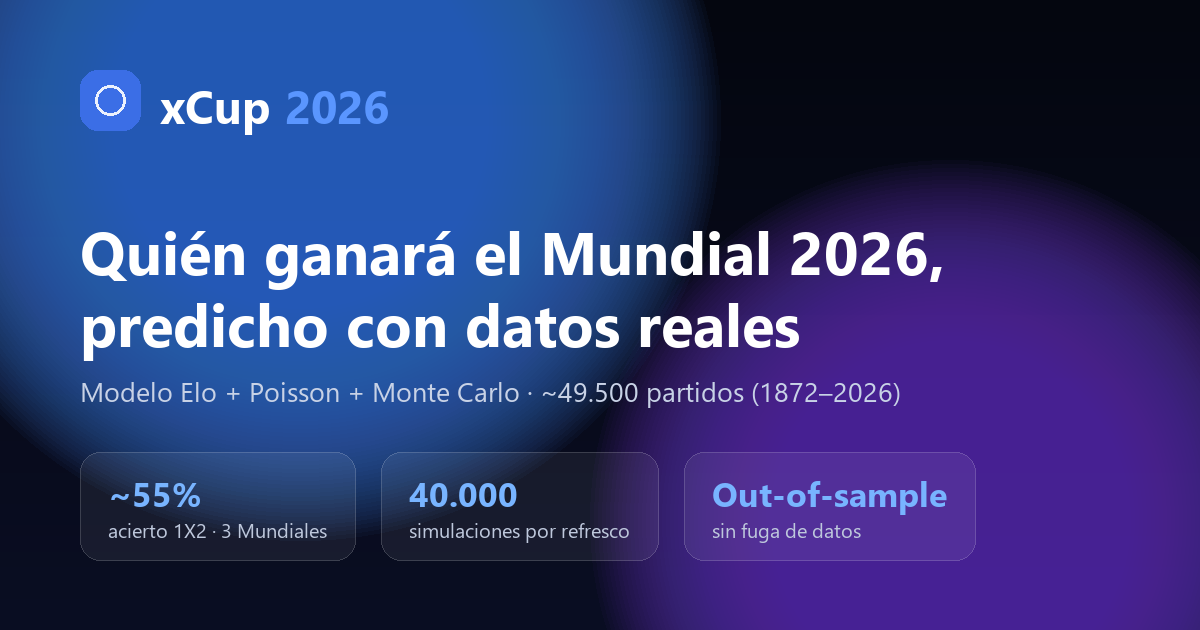
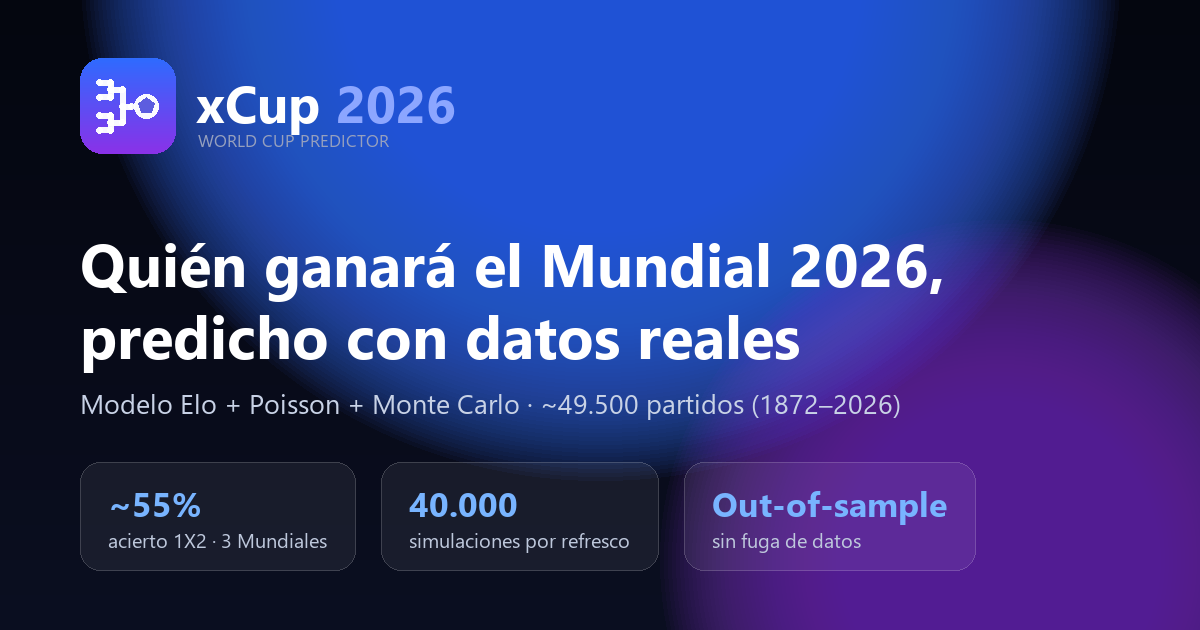
Rediseño de marca y acabado visual
- Logo nuevo (Logo.jsx + favicon): el bracket que converge en el balon, sobre
  chip degradado azul->violeta con brillo superior. Wordmark xCup con '2026' en
  degradado de marca y tagline 'World Cup Predictor'.
- Header: glow del logo al hover, hairline degradado inferior.
- Pestañas tipo segmented control con activa en degradado de marca.
- Fondo mas rico (glow de estadio + tres luces difusas), glass v2 con brillo
  superior, hairlines degradados en footer.
- Campeon en dorado (cuadro, movil, informe) con halo tras el trofeo.
- Inter 900 para titulos; og-image regenerada con la marca nueva.

diff --git a/frontend/src/components/Logo.jsx b/frontend/src/components/Logo.jsx
@@ -1,0 +1,32 @@
+// Marca xCup: un cuadro (bracket) que converge en el balón — la idea del
+// producto hecha icono. Mismo dibujo que public/favicon.svg.
+export default function Logo({ size = 36 }) {
+  return (
+    <svg width={size} height={size} viewBox="0 0 64 64" aria-hidden="true">
+      <defs>
+        <linearGradient id="xcup-bg" x1="0" y1="0" x2="1" y2="1">
+          <stop offset="0" stopColor="#2f6bff" />
+          <stop offset="0.55" stopColor="#5b4cf5" />
+          <stop offset="1" stopColor="#8b31e8" />
+        </linearGradient>
+        <linearGradient id="xcup-shine" x1="0" y1="0" x2="0" y2="1">
+          <stop offset="0" stopColor="rgba(255,255,255,0.25)" />
+          <stop offset="0.55" stopColor="rgba(255,255,255,0)" />
+        </linearGradient>
+      </defs>
+      <rect width="64" height="64" rx="15" fill="url(#xcup-bg)" />
+      <rect width="64" height="64" rx="15" fill="url(#xcup-shine)" />
+      <g stroke="#fff" strokeWidth="4" strokeLinecap="round" strokeLinejoin="round" fill="none" opacity="0.96">
+        {/* llave superior */}
+        <path d="M13 16 H20 V26 H13 M20 21 H28" />
+        {/* llave inferior */}
+        <path d="M13 38 H20 V48 H13 M20 43 H28" />
+        {/* semifinal → final */}
+        <path d="M28 21 V43 M28 32 H34" />
+      </g>
+      {/* el balón (campeón) */}
+      <circle cx="44.5" cy="32" r="8" fill="#fff" opacity="0.97" />
+      <path d="M44.5 27.6l4.1 3-1.55 4.8h-5.1l-1.55-4.8 4.1-3Z" fill="url(#xcup-bg)" opacity="0.9" />
+    </svg>
+  )
+}

diff --git a/frontend/src/index.css b/frontend/src/index.css
@@ -45,11 +45,36 @@ body {
 ::-webkit-scrollbar-thumb { background: #1a2240; border-radius: 3px; }
 ::-webkit-scrollbar-thumb:hover { background: #3b82f6; }
 
-/* Glass card */
+/* Tokens de marca */
+:root {
+  --brand-a: #2f6bff;
+  --brand-b: #8b31e8;
+  --gold-a: #ffe9a8;
+  --gold-b: #f0b93c;
+}
+
+/* Texto con degradado de marca */
+.brand-text {
+  background: linear-gradient(120deg, #6ea0ff 0%, #a78bfa 100%);
+  -webkit-background-clip: text;
+  background-clip: text;
+  color: transparent;
+}
+
+/* Dorado del campeón */
+.champ-gold {
+  background: linear-gradient(180deg, var(--gold-a) 20%, var(--gold-b) 90%);
+  -webkit-background-clip: text;
+  background-clip: text;
+  color: transparent;
+}
+
+/* Glass card (v2: brillo superior sutil + borde más fino) */
 .glass {
-  background: rgba(255, 255, 255, 0.04);
+  background: linear-gradient(180deg, rgba(255, 255, 255, 0.055), rgba(255, 255, 255, 0.028));
   backdrop-filter: blur(12px);
-  border: 1px solid rgba(255, 255, 255, 0.08);
+  border: 1px solid rgba(255, 255, 255, 0.09);
+  box-shadow: inset 0 1px 0 rgba(255, 255, 255, 0.05);
 }
 
 .glass-hover:hover {

diff --git a/frontend/src/components/Header.jsx b/frontend/src/components/Header.jsx
@@ -1,5 +1,6 @@
 import { useEffect, useRef, useState } from 'react'
-import { BallIcon, ClockIcon } from './Icons.jsx'
+import { ClockIcon } from './Icons.jsx'
+import Logo from './Logo.jsx'
 import { useI18n, localeOf } from '../i18n.jsx'
 
 function fmt(ts, lang) {
@@ -40,20 +41,23 @@ export default function Header({ trainedThrough, lastUpdated, refreshing, onHome
     prev.current = lastUpdated
   }, [lastUpdated])
   return (
-    <header className="sticky top-0 z-50 flex items-center justify-between px-4 sm:px-6 py-2.5 sm:py-3 border-b border-white/5"
-      style={{ background: 'rgba(4, 6, 15, 0.85)', backdropFilter: 'blur(20px)' }}>
+    <header className="sticky top-0 z-50"
+      style={{ background: 'rgba(4, 6, 15, 0.82)', backdropFilter: 'blur(20px)' }}>
+      <div className="flex items-center justify-between px-4 sm:px-6 py-2.5 sm:py-3">
 
       <button onClick={onHome} aria-label="Inicio"
-        className="flex items-center gap-2.5 rounded-lg hover:opacity-90 transition-opacity">
+        className="group flex items-center gap-2.5 rounded-lg transition-transform hover:scale-[1.02] active:scale-100">
         <div className="relative">
-          <div className="w-9 h-9 rounded-lg bg-gradient-to-br from-blue-600 to-violet-700 flex items-center justify-center text-white">
-            <BallIcon size={20} />
-          </div>
-          <div className="absolute -inset-0.5 bg-gradient-to-br from-blue-600 to-violet-700 rounded-lg blur opacity-40 -z-10" />
+          <Logo size={36} />
+          <div className="absolute -inset-1 rounded-xl blur-md opacity-35 group-hover:opacity-60 transition-opacity -z-10"
+            style={{ background: 'linear-gradient(135deg,#2f6bff,#8b31e8)' }} />
         </div>
-        <div className="leading-tight">
-          <span className="text-white font-bold text-sm sm:text-base tracking-tight">xCup</span>
-          <span className="ml-1.5 text-blue-400 font-bold text-sm sm:text-base">2026</span>
+        <div className="leading-none">
+          <span className="text-white font-black text-base sm:text-lg tracking-tight">xCup</span>
+          <span className="ml-1.5 font-black text-base sm:text-lg tracking-tight brand-text">2026</span>
+          <div className="hidden sm:block text-[8.5px] font-semibold uppercase tracking-[0.22em] text-white/35 mt-1">
+            World Cup Predictor
+          </div>
         </div>
       </button>
 
@@ -81,6 +85,9 @@ export default function Header({ trainedThrough, lastUpdated, refreshing, onHome
         ) : null}
         <LangToggle lang={lang} setLang={setLang} />
       </div>
+      </div>
+      {/* hairline degradado bajo el header */}
+      <div className="h-px bg-gradient-to-r from-transparent via-blue-500/35 to-transparent" />
     </header>
   )
 }

diff --git a/frontend/src/App.jsx b/frontend/src/App.jsx
@@ -71,12 +71,14 @@ export default function App() {
 
   return (
     <div className="min-h-screen flex flex-col noise"
-      style={{ background: 'linear-gradient(160deg,#04060f 0%,#060914 60%,#080c1a 100%)' }}>
+      style={{ background: 'radial-gradient(1100px 480px at 50% -12%, rgba(47,107,255,0.10), transparent 62%), linear-gradient(165deg,#04060f 0%,#060a16 55%,#0a0e1f 100%)' }}>
       <div className="fixed inset-0 pointer-events-none z-0 overflow-hidden">
-        <div className="absolute -top-20 left-1/3 w-[600px] h-[600px] rounded-full opacity-[0.04]"
-          style={{ background: 'radial-gradient(circle,#3b82f6,transparent)', filter: 'blur(120px)' }} />
-        <div className="absolute top-1/2 right-1/4 w-72 h-72 rounded-full opacity-[0.03]"
-          style={{ background: 'radial-gradient(circle,#7c3aed,transparent)', filter: 'blur(80px)' }} />
+        <div className="absolute -top-24 left-1/3 w-[640px] h-[640px] rounded-full opacity-[0.05]"
+          style={{ background: 'radial-gradient(circle,#2f6bff,transparent)', filter: 'blur(120px)' }} />
+        <div className="absolute top-1/2 right-1/4 w-80 h-80 rounded-full opacity-[0.04]"
+          style={{ background: 'radial-gradient(circle,#8b31e8,transparent)', filter: 'blur(90px)' }} />
+        <div className="absolute bottom-0 left-1/4 w-96 h-64 rounded-full opacity-[0.03]"
+          style={{ background: 'radial-gradient(circle,#0ea5e9,transparent)', filter: 'blur(100px)' }} />
       </div>
 
       <div className="relative z-10 flex flex-col min-h-screen h-screen">
@@ -90,13 +92,16 @@ export default function App() {
             <span className="ml-2 text-xs sm:text-sm font-normal text-white/30">{t('title.sub')}</span>
           </h1>
           <div role="tablist" aria-label="Vistas"
-            className="flex rounded-xl border border-white/10 overflow-x-auto text-xs">
+            className="flex rounded-xl border border-white/10 overflow-x-auto text-xs bg-white/[0.025] p-1 gap-0.5">
             {views.map(v => {
               const active = view === v.id
               return (
                 <button key={v.id} onClick={() => setView(v.id)} role="tab" aria-selected={active}
-                  className={`flex items-center gap-1.5 px-3 sm:px-4 py-2 font-semibold whitespace-nowrap transition-colors border-l first:border-l-0 border-white/10 ${
-                    active ? 'bg-blue-600/25 text-blue-300' : 'text-white/55 hover:text-white hover:bg-white/5'}`}>
+                  className={`flex items-center gap-1.5 px-3 sm:px-3.5 py-1.5 rounded-lg font-semibold whitespace-nowrap transition-all ${
+                    active
+                      ? 'text-white shadow-[inset_0_1px_0_rgba(255,255,255,0.12)]'
+                      : 'text-white/50 hover:text-white hover:bg-white/[0.06]'}`}
+                  style={active ? { background: 'linear-gradient(135deg, rgba(47,107,255,0.42), rgba(139,49,232,0.34))' } : undefined}>
                   <v.Icon size={15} />
                   <span>{t(`nav.${v.id}`)}</span>
                 </button>
@@ -174,7 +179,8 @@ export default function App() {
           )}
         </div>
 
-        <footer className="flex-shrink-0 py-2 px-4 sm:px-6 flex items-center justify-between gap-3 border-t border-white/[0.05]">
+        <footer className="flex-shrink-0 py-2 px-4 sm:px-6 flex items-center justify-between gap-3"
+          style={{ borderTop: '1px solid transparent', borderImage: 'linear-gradient(90deg, transparent, rgba(255,255,255,0.09), transparent) 1' }}>
           <span className="text-[10px] text-white/40 truncate">{t('footer.disclaimer')}</span>
           <span className="text-[10px] text-white/40 hidden sm:block flex-shrink-0">{t('footer.model', { n: data?.model?.n_matches?.toLocaleString(lang==='en'?'en-GB':'es') })}</span>
         </footer>

diff --git a/frontend/src/components/Bracket.jsx b/frontend/src/components/Bracket.jsx
@@ -235,12 +235,16 @@ export default function Bracket({ bracket, selectedKey, onSelect }) {
           <SlotRow slot={final?.[0]} top tp={tp} />
           <SlotRow slot={final?.[1]} tp={tp} />
         </button>
-        <TrophyIcon size={34} className="text-amber-400 mb-1.5" />
+        <div className="relative mb-1.5">
+          <TrophyIcon size={34} className="text-amber-400" />
+          <div className="absolute -inset-2 rounded-full blur-lg opacity-30 -z-10"
+            style={{ background: 'radial-gradient(circle,#f0b93c,transparent)' }} />
+        </div>
         <div className="text-[9px] uppercase tracking-widest text-white/40">{t('common.champion')}</div>
         <div className="flex items-center gap-1.5 mt-1.5">
           {champ?.team && getFlagUrl(champ.team) &&
             <img src={getFlagUrl(champ.team, 40)} alt="" width={26} height={17} className="rounded-[2px]" style={{ height: 17 }} />}
-          <span className="text-base font-black text-white">{champ ? teamLabel(champ.team) : '—'}</span>
+          <span className="text-lg font-black champ-gold">{champ ? teamLabel(champ.team) : '—'}</span>
         </div>
         {champ?.prob != null && <div className="text-[11px] text-amber-400/80 font-bold mt-0.5">{champ.prob}%</div>}
       </div>

diff --git a/frontend/index.html b/frontend/index.html
@@ -29,7 +29,7 @@
     <link rel="icon" href="/favicon.svg" type="image/svg+xml" />
     <link rel="preconnect" href="https://fonts.googleapis.com" />
     <link rel="preconnect" href="https://fonts.gstatic.com" crossorigin />
-    <link href="https://fonts.googleapis.com/css2?family=Inter:wght@300;400;500;600;700;800&display=swap" rel="stylesheet" />
+    <link href="https://fonts.googleapis.com/css2?family=Inter:wght@300;400;500;600;700;800;900&display=swap" rel="stylesheet" />
   </head>
   <body>
     <div id="root"></div>

diff --git a/frontend/src/components/BracketMobile.jsx b/frontend/src/components/BracketMobile.jsx
@@ -69,7 +69,7 @@ export default function BracketMobile({ bracket, champion, selectedKey, onSelect
           <div className="flex items-center gap-1.5">
             {champion && getFlagUrl(champion) &&
               <img src={getFlagUrl(champion, 40)} alt="" width={22} height={15} className="rounded-[2px]" style={{ height: 15 }} />}
-            <span className="text-base font-black text-white truncate">{champion ? teamLabel(champion) : '—'}</span>
+            <span className="text-base font-black champ-gold truncate">{champion ? teamLabel(champion) : '—'}</span>
           </div>
         </div>
         {champProb != null && <span className="text-sm font-black text-amber-400">{champProb}%</span>}

diff --git a/frontend/src/components/FinalReport.jsx b/frontend/src/components/FinalReport.jsx
@@ -33,7 +33,7 @@ function ChampCard({ title, team, extra, highlight }) {
       <div className="flex items-center justify-center gap-2">
         {team && getFlagUrl(team) &&
           <img src={getFlagUrl(team, 80)} alt="" width={34} height={23} className="rounded-[3px]" style={{ height: 23 }} />}
-        <span className="text-xl sm:text-2xl font-black text-white">{team ? teamLabel(team) : '—'}</span>
+        <span className={`text-xl sm:text-2xl font-black ${highlight ? 'champ-gold' : 'text-white'}`}>{team ? teamLabel(team) : '—'}</span>
       </div>
       {extra && <div className="text-[11px] text-amber-300/80 font-semibold mt-1.5">{extra}</div>}
     </div>